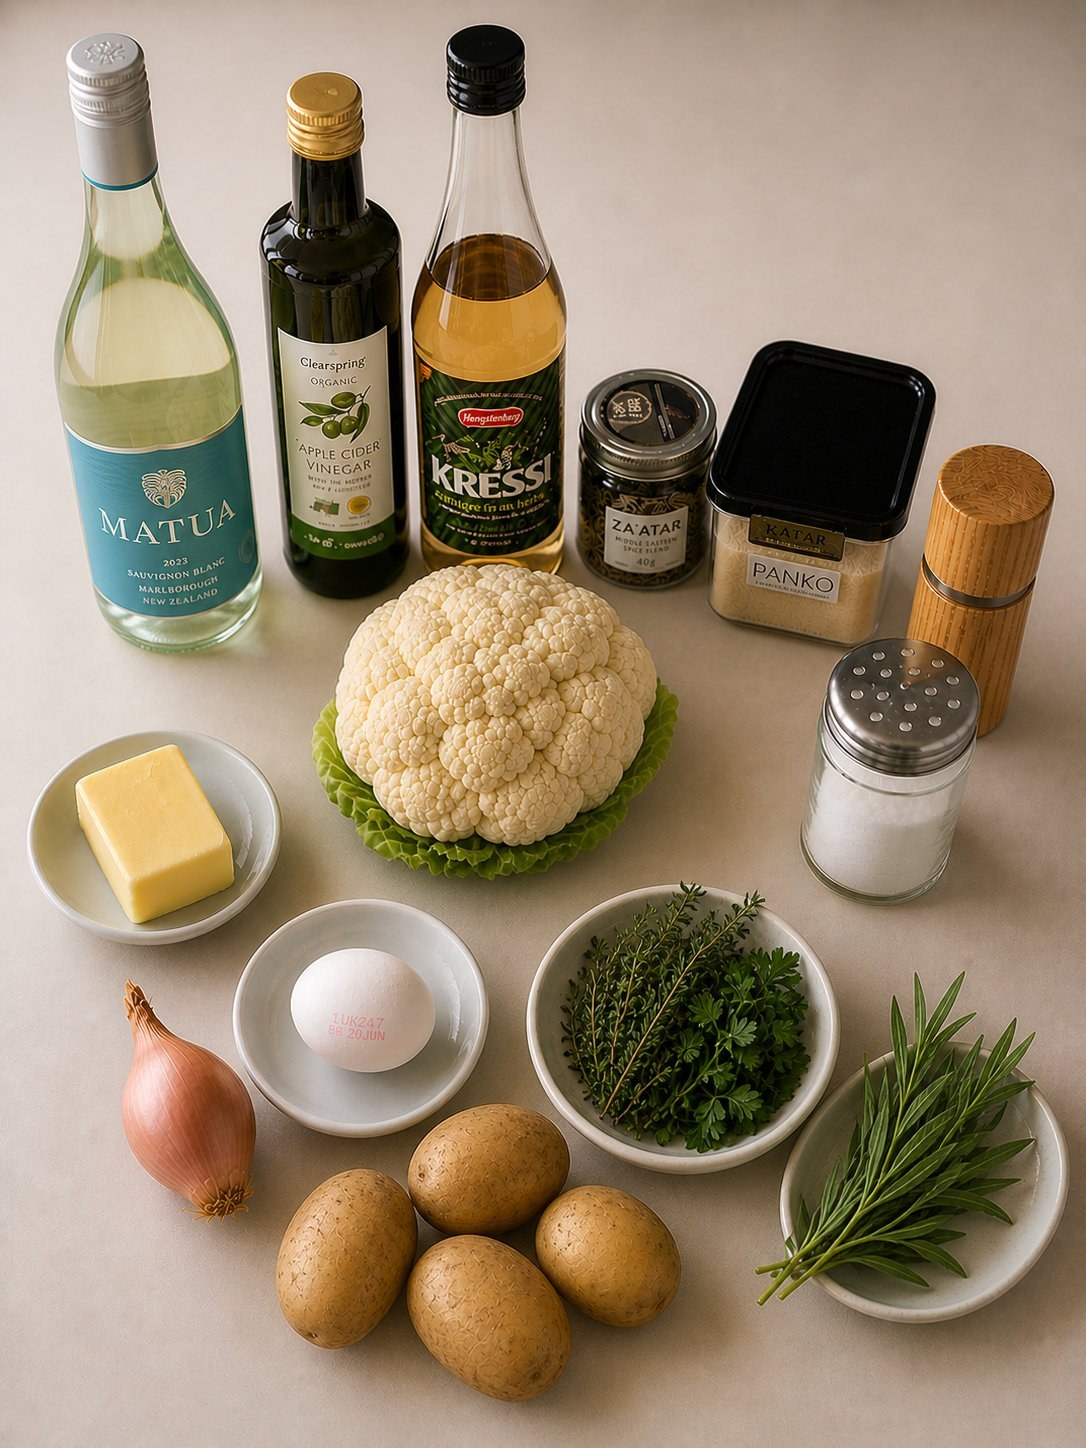
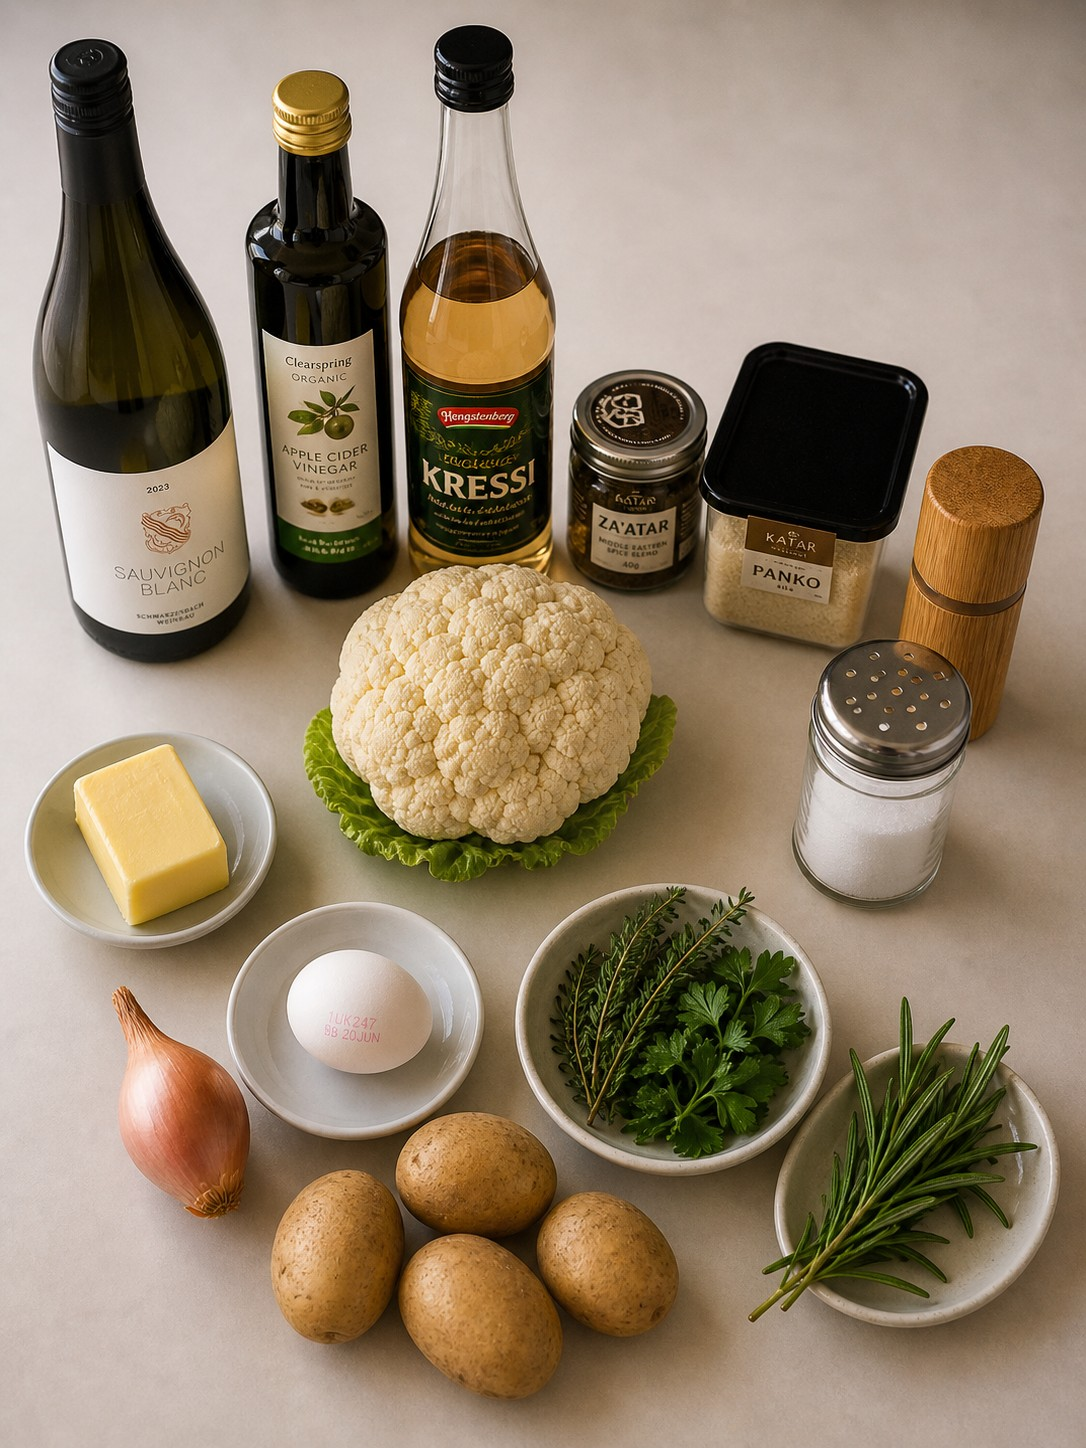
pic cuts, sauvignon

diff --git a/ai/js/cookbook.js b/ai/js/cookbook.js
@@ -151,7 +151,9 @@ function renderRecipe(recipe, lang) {
       </header>
 
       <figure class="hero">
-        <img src="${escapeHtml(recipe.finished?.image || '')}" alt="${escapeHtml(finishedAlt)}">
+        <img src="${escapeHtml(recipe.finished?.image || '')}"
+             alt="${escapeHtml(finishedAlt)}"
+             style="object-position: ${escapeHtml(recipe.finished?.focal || 'center center')}">
       </figure>
 
       <div class="mood">

diff --git a/ai/css/cookbook.css b/ai/css/cookbook.css
@@ -551,7 +551,7 @@ h1.recipe-title {
   .recipe-subtitle { font-size: 11pt; margin: 0 0 4mm; }
 
   .hero { margin: 0 0 4mm; }
-  .hero img { aspect-ratio: 16/8; max-height: 55mm; object-fit: cover; }
+  .hero img { aspect-ratio: 16/9; max-height: 60mm; object-fit: cover; }
 
   .mood {
     font-size: 9pt;

diff --git a/ai/README.md b/ai/README.md
@@ -79,8 +79,8 @@ Zutaten-ID einen Punkt im Korbfoto (in Prozent der Bildbreite/-höhe):
 
 ```json
 "connectors": {
-  "schokolade": { "x": 28, "y": 35 },
-  "rosmarin":   { "x": 60, "y": 50 }
+"schokolade": { "x": 28, "y": 35 },
+"rosmarin":   { "x": 60, "y": 50 }
 }
 ```
 
@@ -90,6 +90,27 @@ Die `id` (z. B. `"schokolade"`) muss mit der `id` im Zutaten-Item
 > **TODO für Rezept #1:** Korbfoto neu fotografieren mit Sahnekännchen
 > statt rotem Karton, plus Butter und Milch ergänzen — danach die
 > Verbinder-Koordinaten eintragen.
+
+## Heldenfoto: Bildausschnitt steuern
+
+Das Hero-Foto (`finished.image`) wird sowohl auf dem Bildschirm (4:3) als
+auch im Druck (16:9) auf eine feste Form zugeschnitten. Damit wichtige
+Bildteile nicht abgeschnitten werden, kann pro Rezept ein Fokuspunkt
+gesetzt werden:
+
+```json
+"finished": {
+  "image": "../assets/photos/recipe-NNN/finished.jpeg",
+  "focal": "center 35%",
+  "alt": { … }
+}
+```
+
+`focal` akzeptiert jeden gültigen `object-position`-Wert, z. B.
+`"center top"`, `"30% center"`, `"center 60%"`. Ohne Angabe zentriert
+das Bild (`center center`). Faustregel: zuerst horizontal (links/rechts),
+dann vertikal (oben/unten) — kleinere Prozentwerte = weiter links bzw.
+weiter oben.
 
 ## Mehrere Körbe pro Rezept
 
